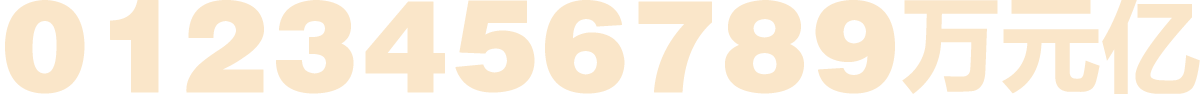
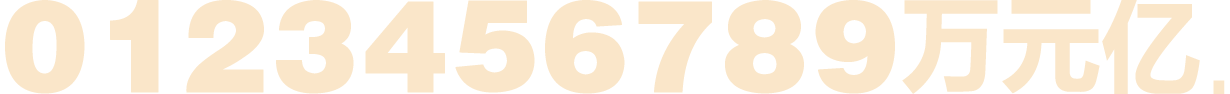
0330

diff --git a/css/css.css b/css/css.css
@@ -20,6 +20,8 @@ ul,ol,dl{ list-style:none;}
 
 html,body{position:relative;height:100%;}
 .swiper-container {width: 100%;height: 100%;}
+.swiper-slide {  display: -webkit-box; display: -ms-flexbox; display: -webkit-flex; display: flex; -webkit-box-pack: center; -ms-flex-pack: center; -webkit-justify-content: center; justify-content: center; -webkit-box-align: center; -ms-flex-align: center; -webkit-align-items: center; align-items: center; background:url(../images/bg_body.jpg) no-repeat center top; background-size:100% 100%; }
+
 html { -webkit-text-size-adjust: none; font-size:62.5%; }
 body{ max-width:720px; margin:0 auto; font:normal 12px/1.5 "Microsoft YaHei", "Helvetica Neue", Helvetica, STHeiTi, sans-serif;}
 .container{padding:10px 15px; height: 100%; box-sizing: border-box;}
@@ -35,7 +37,7 @@ body{ max-width:720px; margin:0 auto; font:normal 12px/1.5 "Microsoft YaHei", "H
 .valued-at{ padding:10px 20px; background: url(../images/bg_valuation_2.png) no-repeat; background-size: 100% 100%;}
 .valued-at h4{ font-size:18px; font-weight:bold; margin-bottom:15px;}
 .numerical{ text-align:center; margin:0 auto 15px;}
-.numerical span{ background:url(../images/number.png) no-repeat; background-size:600px 47px; width:45px; height:47px; display:inline-block;}
+.numerical span{ background:url(../images/number.png) no-repeat; background-size:615px 47px; width:45px; height:47px; display:inline-block;}
 .numerical .n0{ background-position:0 0;}
 .numerical .n1{ background-position:-45px 0;}
 .numerical .n2{ background-position:-90px 0;}
@@ -49,6 +51,7 @@ body{ max-width:720px; margin:0 auto; font:normal 12px/1.5 "Microsoft YaHei", "H
 .numerical .wan{ background-position:-450px 0;width:50px}
 .numerical .yuan{ background-position:-500px 0;width:50px}
 .numerical .yi{ background-position:-550px 0;width:50px}
+.numerical .doc{ background-position:-600px 0;width:15px}
 .beat{ text-align:center; font-size:18px; text-align:center;}
 .text{ padding:0 40px 30px; text-align:center;}
 .text img{ width:100%; max-width:660px; margin:0 auto;}
@@ -65,8 +68,8 @@ body{ max-width:720px; margin:0 auto; font:normal 12px/1.5 "Microsoft YaHei", "H
 .provide{ text-align:center; color:#a14000; font-size:14px;}
 /*dialog*/
 .mask{width:100%; height:100%; position:fixed; z-index:11; top:0; left:0; background:rgba(0, 0, 0, 0.6); padding:10px; box-sizing:border-box; -moz-box-sizing:border-box; -webkit-box-sizing:border-box;}
-.dialog{ background:#eedab6; border-radius:5px; z-index:100; position:absolute; width:80%; top:30%; left:50%; margin-left:-40%;}
-.dialog .dialog-c{ padding:50px 30px;}
+.dialog{ background:#eedab6; border-radius:5px; z-index:100; position:absolute; width:80%; top:20%; left:50%; margin-left:-40%;}
+.dialog .dialog-c{ padding:30px;}
 .dialog .code{ background:url(../images/code.png) no-repeat; background-size:150px 150px; width:150px; height:150px; margin:0 auto 30px;}
 .dialog .code a{ width:150px; height:150px; display:block;}
 .dialog .code-text{ background:url(../images/attention.png) no-repeat; background-size:211px 55px; width:211px; height:55px; margin:0 auto;}

diff --git a/index.html b/index.html
@@ -9,21 +9,15 @@
 <meta name="keywords" content=""/>
 <link href="css/css.css" rel="stylesheet" type="text/css">
 <link rel="stylesheet" type="text/css" href="js/swiper.min.css">
-<style>
-html, body { position: relative; height: 100%; }
-.swiper-container { width: 100%; height: 100%; }
-.swiper-slide {  display: -webkit-box; display: -ms-flexbox; display: -webkit-flex; display: flex; -webkit-box-pack: center; -ms-flex-pack: center; -webkit-justify-content: center; justify-content: center; -webkit-box-align: center; -ms-flex-align: center; -webkit-align-items: center; align-items: center; background:url(images/bg_body.jpg) no-repeat center top; background-size:100% 100%; }
-</style>
 </head>
 
 <body>
-
 <div class="swiper-container">
     <div class="swiper-wrapper">
     
         <div class="swiper-slide">
             <div class="container">
-                <div class="character"><img src="images/pic5.jpg"></div>
+                <div class="character"><img src="images/pic5.png"></div>
                 <div class="valuation-content">
                     <div class="estimate">
                         <dl class="public">
@@ -42,7 +36,7 @@ html, body { position: relative; height: 100%; }
                     <div class="valued-at">
                         <h4>估值高达：</h4>
                         <div class="numerical">
-                            <span class="n2"></span><span class="n3"></span><span class="n6"></span><span class="n8"></span><span class="wan"></span>
+                            <span class="n2"></span><span class="doc"></span><span class="n6"></span><span class="n8"></span><span class="wan"></span>
                         </div>
                         <div class="beat">打败99%的公众号</div>
                     </div>
@@ -54,7 +48,7 @@ html, body { position: relative; height: 100%; }
          
         <div class="swiper-slide">
         	<div class="container">
-                <div class="character p2-char"><img src="images/pic_valuatio.jpg"></div>
+                <div class="character"><img src="images/pic_valuatio.png"></div>
                 <div class="text"><img src="images/valuation.png" ></div>
                 <div class="btns">
                     <ul>
@@ -69,14 +63,14 @@ html, body { position: relative; height: 100%; }
             </div>
             
             <!--dialog-->
-            <!--<div class="mask"></div>
+            <div class="mask"></div>
             <div class="dialog">
                 <a href="#" class="close"></a>
                 <div class="dialog-c">
                     <div class="code"><a href="#"></a></div>
                     <div class="code-text"></div>
                 </div>
-            </div>-->
+            </div>
             <!--/dialog-->
         </div>  
             
